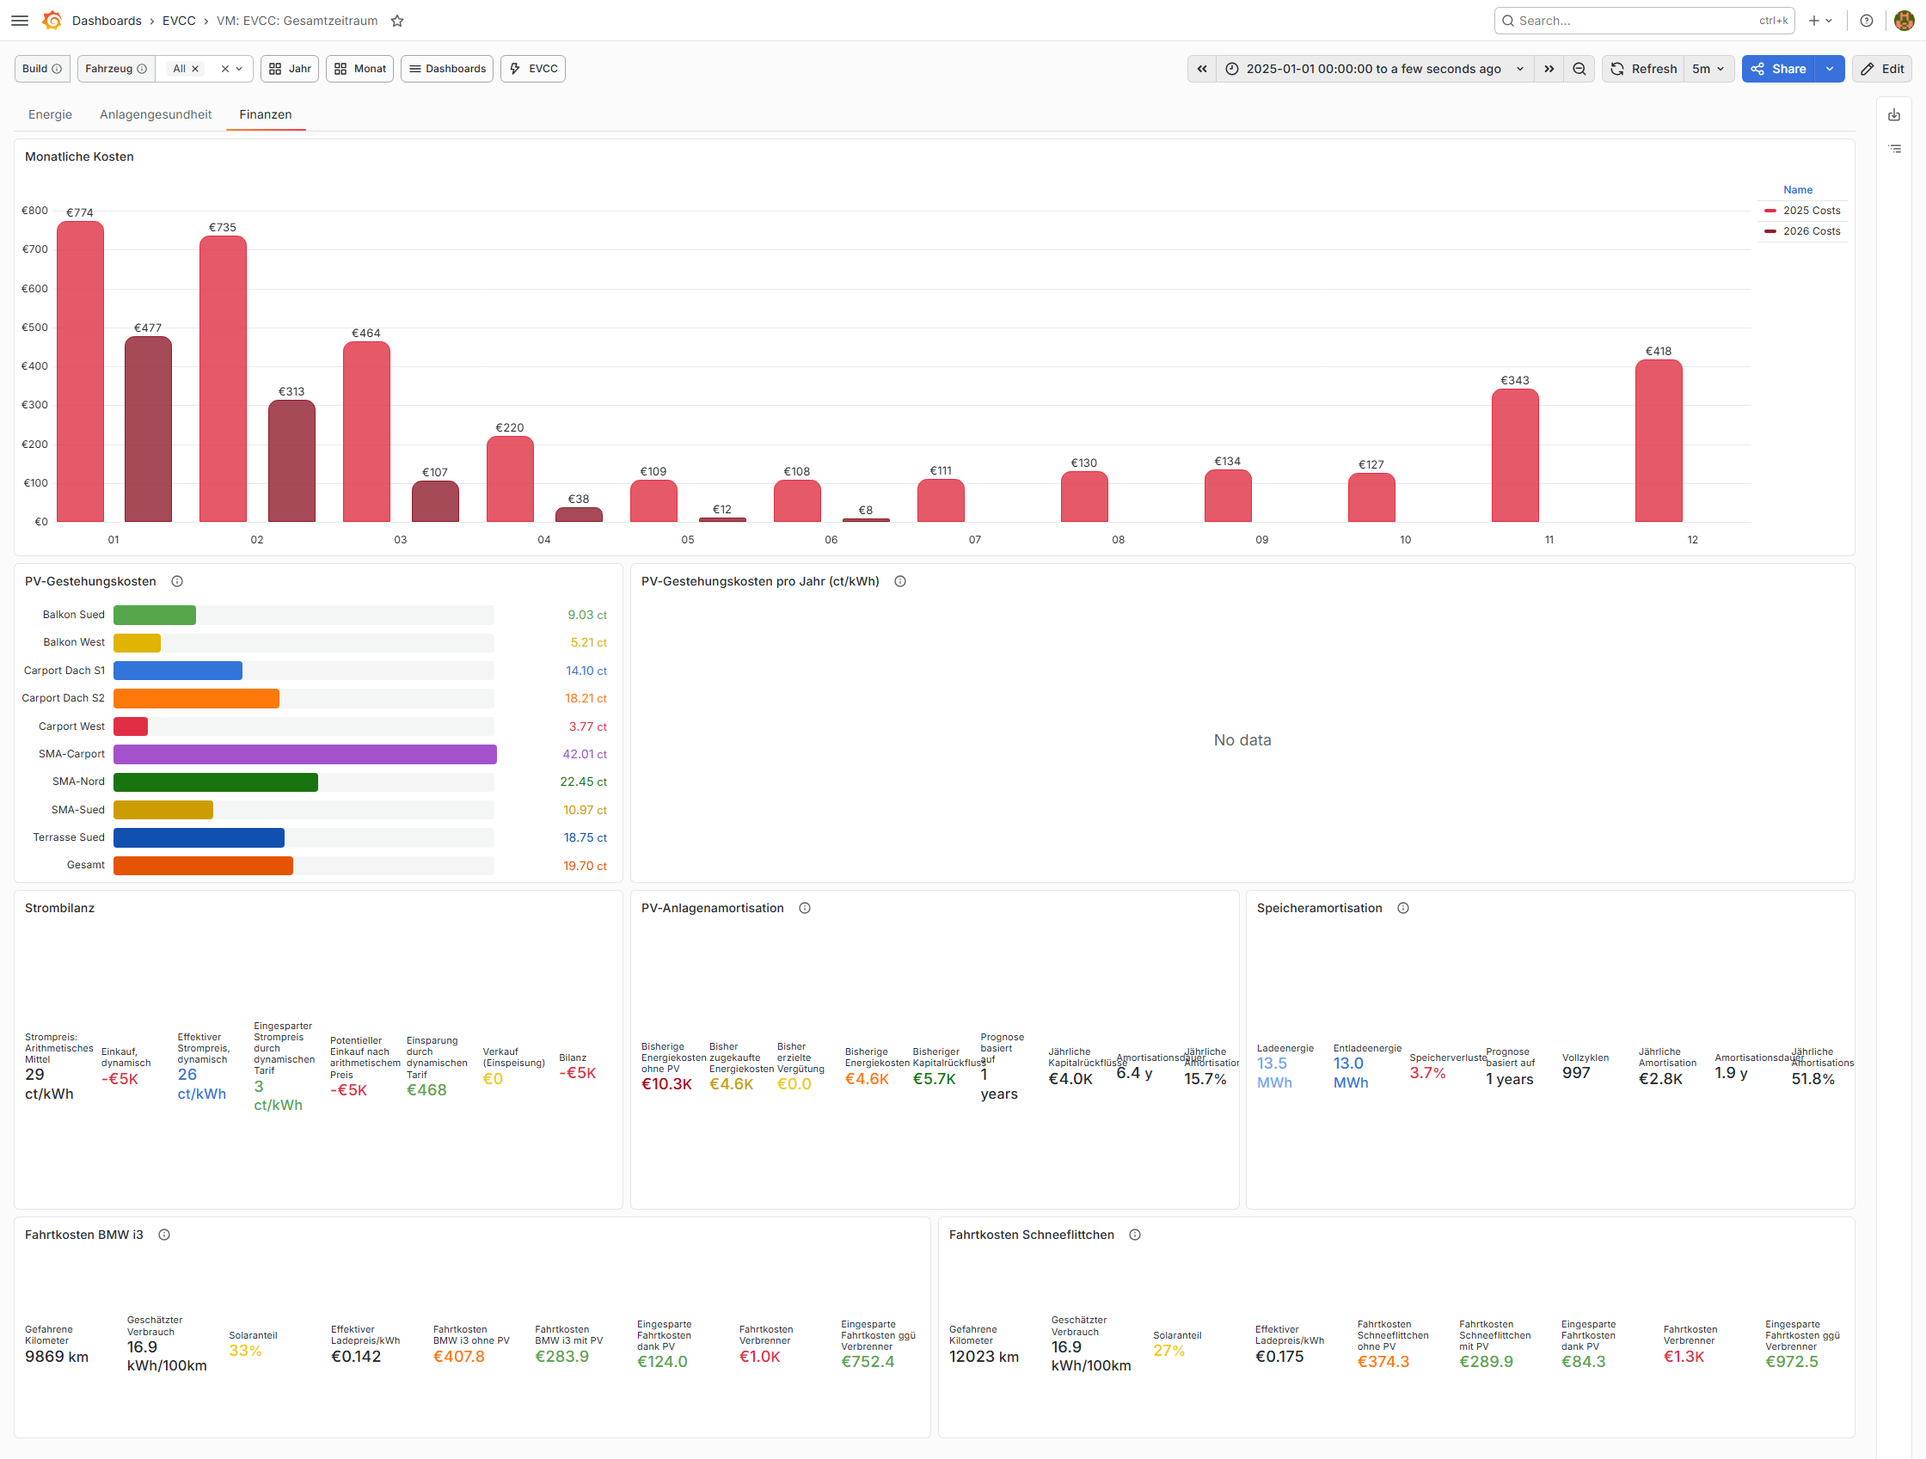
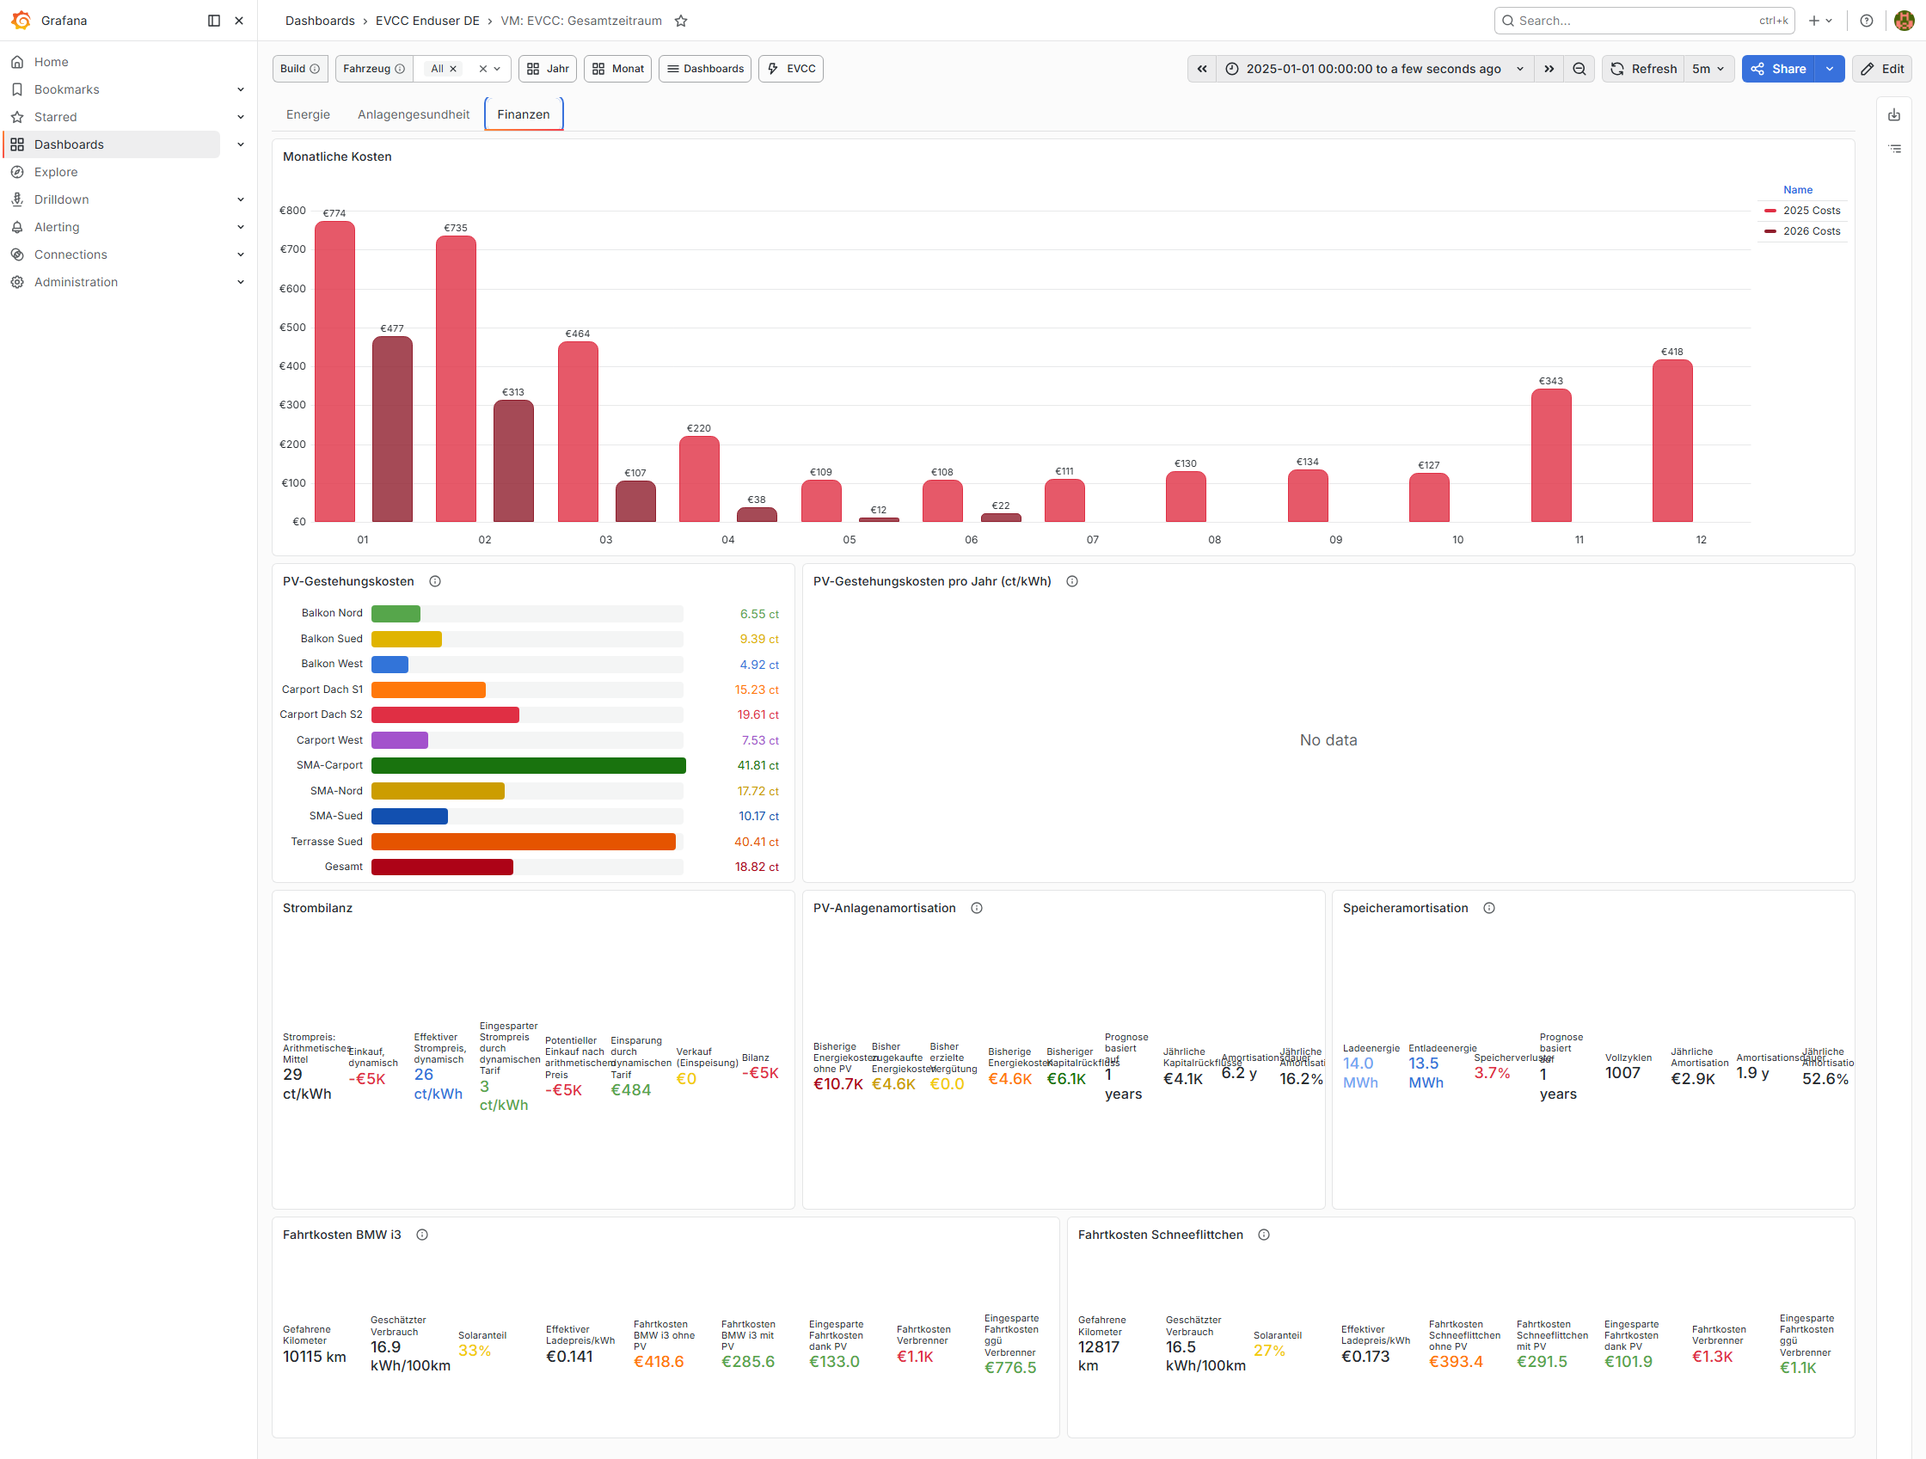
docs: prepare V2026-06-30 release

diff --git a/README.md b/README.md
@@ -6,8 +6,8 @@ English: This repository contains VictoriaMetrics-based Grafana dashboards for E
 
 Die Arbeit baut auf den frueheren InfluxDB-basierten EVCC-Dashboards von Carsten auf:
 [ha-puzzles/evcc-grafana-dashboards](https://github.com/ha-puzzles/evcc-grafana-dashboards).
-Vielen Dank an Carsten fuer die starke Vorarbeit. Dieses Repository liefert den VictoriaMetrics-Pfad mit Migration, Tages-Rollups, lokalisierten Dashboard-Varianten und Deploy-Skripten fuer Grafana.
-Ich werde versuchen, den Stand mit dem von Carsten synchron zu halten - von daher kann es immer mal zu breaking changes kommen. evtl. lasst Ihr als via Telegraf weiterhin auch Eure Influx befüllen. Quasi als Fallback falls neu migriert werden muss.
+Vielen Dank an Carsten fuer die starke Vorarbeit. Dieses Repository liefert den VictoriaMetrics-Pfad mit Migration, Tages-Rollups, lokalisierten Dashboard-Varianten, optionalen Zusatz-Auswertungen und Deploy-Skripten fuer Grafana.
+Ich versuche, den Stand mit Carstens Projekt synchron zu halten. Gerade bei neuen Funktionen kann es deshalb gelegentlich zu Breaking Changes kommen. Wenn du frisch migrierst, ist es sinnvoll, InfluxDB ueber Telegraf zunaechst weiter parallel zu befuellen, bis die VictoriaMetrics-Installation vollstaendig validiert ist.
 
 Beispiel-Dashboard, automatisch aus der aktuellen Screenshot-Galerie:
 
@@ -24,6 +24,10 @@ Weitere Beispiele der Dashboards findest du in der [Screenshot-Galerie](./docs/s
 - Grafana-13-TAB-Dashboards als unterstuetztes Navigationsmodell
 - Deploy-Skripte fuer Erstimport und Updates
 - ein Rollup-Skript fuer taegliche Langzeit-Metriken
+- optionale PV-Gestehungskosten/LCOE-Auswertung mit Investment-Datei und Wochen-Helper
+- PV-Anlagenvergleiche fuer Jahresertrag und spezifischen Ertrag (`kWh/kWp`)
+- EVCC-Gruenanteil als KPI in Tages- und Langzeitansichten
+- optionale historische Energieimporte, z. B. SMA-PV-Ertraege und SMA-Energiebilanzen als EVCC-kompatible Tageswerte
 - einen optionalen [Netzsteuerungs-Audit-Collector](./docs/de/grid-control-audit.md) fuer den Daily-Details-Tab
 - Dokumentation fuer die Migration von InfluxDB nach VictoriaMetrics
 - Installations- und Betriebsanleitungen fuer VictoriaMetrics, EVCC/Telegraf-Live-Ingest, Grafana, Migration und Dashboard-Deployment
@@ -33,10 +37,10 @@ Weitere Beispiele der Dashboards findest du in der [Screenshot-Galerie](./docs/s
 
 Die Dashboards enthalten Tages-, Monats-, Jahres- und All-Time-Ansichten.
 
-- `Today` zeigt den aktuellen Tag: PV, Netz, Hausverbrauch, Speicher, Ladepunkte, Energiefluss, Forecast, Autarkie, Eigenverbrauch und Kosten.
-- `Today - Details` zeigt zusaetzlich Phasen, Lade-Metriken, Rohhistorien und Preisdetails.
+- `Today` zeigt den aktuellen Tag: PV, Netz, Hausverbrauch, Speicher, Ladepunkte, Energiefluss, Forecast, Autarkie, Eigenverbrauch, Gruenanteil und Kosten.
+- `Today - Details` zeigt zusaetzlich Phasen, Lade-Metriken, Rohhistorien, Preisdetails und optional Netzsteuerungs-/14a-Auditdaten.
 - `Today - Mobile` ist eine kompakte Ansicht fuer kleinere Bildschirme.
-- `Month`, `Year` und `All-time` zeigen laengere Zeitraeume auf Basis der taeglichen `evcc_*` Rollups.
+- `Month`, `Year` und `All-time` zeigen laengere Zeitraeume auf Basis der taeglichen `evcc_*` Rollups, inklusive Finanz-, PV-Anlagen- und Anlagenvergleichsansichten, wenn die optionalen Daten vorhanden sind.
 
 Typische Anwendungsfaelle:
 
@@ -45,11 +49,15 @@ Typische Anwendungsfaelle:
 - Fahrzeuge und Ladepunkte nach Energie, Kosten und Nutzung auswerten
 - Speicherladung, Entladung und SOC-Verhalten analysieren
 - Preisentwicklung, Importkosten und Lastverteilung visualisieren
+- PV-Anlagen ueber Jahresertrag, spezifischen Ertrag und optional Gestehungskosten vergleichen
+- Gruenanteil, Autarkie und Eigenverbrauch als getrennte KPIs beobachten
+- optionale Netzsteuerungs-/14a-Eingriffe auditieren, wenn EVCC und der Collector entsprechende Daten liefern
 - historische EVCC-Daten von InfluxDB nach VictoriaMetrics migrieren und dort weiterbetreiben
+- fehlende historische EVCC-Jahre optional mit kompatiblen Tagesimporten aus externen Quellen ergaenzen
 
 ## Einstieg
 
 Der zentrale Einstieg fuer Installation, Migration, Live-Ingest und Dashboard-Deployment ist:
 
-- [docs/de/README.md](./docs/README.md)
+- [docs/README.md](./docs/README.md)
 - [Release Notes](./docs/de/release-notes.md)

diff --git a/README_EN.md b/README_EN.md
@@ -4,7 +4,7 @@ This repository provides VictoriaMetrics-based dashboards for [EVCC](https://evc
 
 It builds on the earlier InfluxDB-based EVCC dashboard work by Carsten:
 [ha-puzzles/evcc-grafana-dashboards](https://github.com/ha-puzzles/evcc-grafana-dashboards).
-Many thanks to Carsten for the excellent groundwork. This repository provides the VictoriaMetrics implementation path with migration tooling, daily rollups, localized dashboard variants, and Grafana deploy scripts.
+Many thanks to Carsten for the excellent groundwork. This repository provides the VictoriaMetrics implementation path with migration tooling, daily rollups, localized dashboard variants, optional add-on analytics, and Grafana deploy scripts.
 
 Example dashboard, automatically sourced from the current screenshot gallery:
 
@@ -21,6 +21,10 @@ More dashboard examples are available in the [screenshot gallery](./docs/screens
 - Grafana 13 TAB dashboards as the supported navigation model
 - deploy scripts for first-time imports and later updates
 - a rollup script for daily long-range dashboard metrics
+- optional PV generation cost/LCOE analytics based on an investment file and a weekly helper
+- PV source comparisons for yearly energy and specific yield (`kWh/kWp`)
+- EVCC green share as a KPI in daily and long-range views
+- optional historic energy imports, for example SMA PV yield and SMA energy balance files as EVCC-compatible daily values
 - an optional [grid-control audit collector](./docs/en/grid-control-audit.md) for the Daily Details tab
 - documentation for InfluxDB to VictoriaMetrics migration
 - end-user guides for VictoriaMetrics, EVCC/Telegraf live ingest, Grafana, migration, and dashboard deployment
@@ -30,10 +34,10 @@ More dashboard examples are available in the [screenshot gallery](./docs/screens
 
 The dashboards include day, month, year, and all-time views.
 
-- `Today` focuses on the current day: PV, grid, home, battery, charging points, energy flow, forecast, autarky, self-consumption, and costs.
-- `Today - Details` goes deeper into phases, charging metrics, raw histories, and pricing details.
+- `Today` focuses on the current day: PV, grid, home, battery, charging points, energy flow, forecast, autarky, self-consumption, green share, and costs.
+- `Today - Details` goes deeper into phases, charging metrics, raw histories, pricing details, and optional grid-control/14a audit data.
 - `Today - Mobile` is a compact layout for smaller screens.
-- `Month`, `Year`, and `All-time` provide longer-range energy, cost, battery, and vehicle analysis based on daily rollups.
+- `Month`, `Year`, and `All-time` provide longer-range energy, cost, battery, vehicle, finance, and PV-source analysis based on daily rollups when the optional data is available.
 
 Typical use cases:
 
@@ -42,11 +46,15 @@ Typical use cases:
 - analyze vehicles and charging points by energy, cost, and usage
 - inspect battery charge, discharge, and SOC behavior
 - visualize pricing trends, import cost, and load distribution
+- compare PV sources by yearly energy, specific yield, and optional generation cost
+- track green share, autarky, and self-consumption as separate KPIs
+- audit optional grid-control/14a events when EVCC and the collector provide the required data
 - migrate historic EVCC data from InfluxDB to VictoriaMetrics and continue operating there
+- optionally fill historic years without EVCC data from compatible external daily imports
 
 ## Getting started
 
-For the full end-to-end path from EVCC + InfluxDB to EVCC + VictoriaMetrics + Grafana, continue here:
+For installation, migration, live ingest, and dashboard deployment, continue here:
 
 - [docs/en/README.md](./docs/README_EN.md)
 - [release notes](./docs/en/release-notes.md)

diff --git a/docs/de/release-notes.md b/docs/de/release-notes.md
@@ -2,17 +2,30 @@
 
 Englische Version: [release-notes.md](../en/release-notes.md).
 
-Diese Hinweise fassen das erste oeffentliche EVCC-Dashboard-Release auf VictoriaMetrics-Basis zusammen.
+Diese Hinweise fassen die oeffentlichen EVCC-Dashboard-Releases auf VictoriaMetrics-Basis zusammen.
 
 ## Unreleased
 
+Noch keine Eintraege.
+
+## V2026-06-30
+
 ### Neue Funktionen
 
-- EVCC-Gruenanteil wird als eigener KPI dokumentiert und in den Kennzahlenbereichen als EVCC-Haus-Gruenanteil verstanden. Der Wert basiert auf EVCCs `greenShareHome_value` und zaehlt PV plus Batterieentladung als gruen verfuegbare Leistung.
+- EVCC-Gruenanteil ist als eigener KPI in `Today`, `Month`, `Year` und `All-time` sichtbar. Der Wert folgt EVCCs `greenShareHome_value` und beschreibt EVCCs Haus-Gruenanteil als Trend-KPI.
+- Optionaler Netzsteuerungs-/14a-Auditpfad: ein Collector kann EVCC-Begrenzungen und Steuerereignisse nach VictoriaMetrics schreiben und lokal als CSV-Historie sichern. `Today - Details` zeigt dafuer den Tab `Netzsteuerung` mit VNB-Grenzen, Einhaltungsreserven, aktuellen Limits, steuerbaren Gruppen und Ereignistabelle.
+- Der Collector unterstuetzt explizit konfigurierte steuerbare Gruppen, z. B. zusammengefasste Ladepunkte, Waermepumpe und Batterie-Netzladung.
+
+### Verbesserungen
+
+- `Year` und `Month` ordnen Haus-/Verbraucher-/Finanzbereiche klarer: Versorgungsmix-Panels liegen unter `Haus`, Kosten- und Preis-Panels unter `Finanzen`.
+- Netzsteuerungs-Panels verwenden konsistente Vorzeichen und Farben: Bezug/Verbrauch rot, Einspeisung gruen und berechnete Werte blau; Einspeisung wird negativ dargestellt.
+- Der Deployer schreibt eine aussagekraeftigere Dashboard-Build-Info mit Build/Source statt nur dem Deployment-Zeitpunkt.
 
 ### Hinweise fuer Nutzer
 
 - Fuer Langzeit-Gruenanteil in Monats-, Jahres- und Gesamtzeitraum-Dashboards muss der normale EVCC-VM-Rollup fuer die gewuenschten Zeitraeume gelaufen sein. Die aktuellen Langzeitwerte sind Trend-KPIs aus taeglichen EVCC-Ratios, keine externe Oekostrom- oder CO2-Bewertung.
+- Der Netzsteuerungs-Tab erscheint nur, wenn `evcc_audit_*`-Metriken vorhanden sind. Fuer diese optionale Ansicht muss der Collector installiert und betrieben werden; die Doku verwendet dafuer `/opt/evcc-vm-tools`.
 
 ## V2026-06-14
 
@@ -128,6 +141,3 @@ Die Release-Validierung deckte ab:
 - deutsche Screenshots der Dashboards mit Tab-Navigation fuer jeden aktiven Tab
 - Grafana-Lokalisierungs-Spot-Checks fuer `de`, `fr` und `zh`
 - lokale statische/unit/dashboard Checks via `npm test`
-
-
-

diff --git a/docs/en/release-notes.md b/docs/en/release-notes.md
@@ -1,16 +1,29 @@
 # Release Notes
 
-These notes summarize the first public VictoriaMetrics-based EVCC dashboard release.
+These notes summarize the public VictoriaMetrics-based EVCC dashboard releases.
 
 ## Unreleased
 
+No entries yet.
+
+## V2026-06-30
+
 ### New Features
 
-- EVCC green share is documented as a first-class KPI and treated in KPI sections as EVCC's home green share. The value is based on EVCC's `greenShareHome_value` and treats PV plus battery discharge as green available power.
+- EVCC green share is visible as a KPI in `Today`, `Month`, `Year`, and `All-time`. The value follows EVCC's `greenShareHome_value` and represents EVCC's home green share as a trend KPI.
+- Optional grid-control/14a audit path: a collector can write EVCC limits and control events to VictoriaMetrics and keep a local CSV history. `Today - Details` shows these values in the `Grid control` tab with grid limits, compliance reserves, current limits, controllable groups, and an event table.
+- The collector supports explicitly configured controllable groups, for example combined loadpoints, heat pump, and battery grid charge.
+
+### Improvements
+
+- `Year` and `Month` group home, consumer, and finance areas more clearly: supply-mix panels live under `Home`, while cost and price panels live under `Finances`.
+- Grid-control panels use consistent signs and colors: import/consumption in red, feed-in in green, and calculated values in blue; feed-in is shown as negative.
+- The deployer writes a more useful dashboard build marker with build/source instead of only the deployment timestamp.
 
 ### User Notes
 
 - Long-range green-share panels in month, year, and all-time dashboards require the regular EVCC VM rollup for the affected date ranges. The current long-range values are trend KPIs based on daily EVCC ratios, not an external renewable-tariff or CO2 assessment.
+- The grid-control tab is shown only when `evcc_audit_*` metrics exist. This optional view requires the collector to be installed and running; the documentation uses `/opt/evcc-vm-tools` for that setup.
 
 ## V2026-06-14
 
@@ -126,6 +139,3 @@ Release validation covered:
 - German tab-navigation dashboard screenshots for every active tab
 - Grafana localization spot-checks for `de`, `fr`, and `zh`
 - local static/unit/dashboard checks via `npm test`
-
-
-

diff --git a/docs/screenshots/README.md b/docs/screenshots/README.md
@@ -56,13 +56,13 @@ Jahresansicht fuer Haus, Netz und Autarkie.
 
 Jahresansicht fuer Batterie- und Speicherkennzahlen.
 
-### Year Verbraucher
+### Year Finanzen
 
-<a href="./year-consumers.png" target="_blank" rel="noopener">
-  <img src="./year-consumers.png" alt="Year Verbraucher Tab" width="720">
+<a href="./year-finances.png" target="_blank" rel="noopener">
+  <img src="./year-finances.png" alt="Year Finanzen Tab" width="720">
 </a>
 
-Jahresansicht fuer Verbraucher.
+Jahresansicht fuer Finanzen, Stromkosten und PV-Gestehungskosten.
 
 ### Year Fahrzeuge
 
@@ -98,13 +98,13 @@ Monatsansicht fuer Haus, Netzbezug und Eigenverbrauch.
 
 Monatsansicht fuer Batterie, SOC und Speicherfluesse.
 
-### Month Verbraucher
+### Month Finanzen
 
-<a href="./month-consumers.png" target="_blank" rel="noopener">
-  <img src="./month-consumers.png" alt="Month Verbraucher Tab" width="720">
+<a href="./month-finances.png" target="_blank" rel="noopener">
+  <img src="./month-finances.png" alt="Month Finanzen Tab" width="720">
 </a>
 
-Monatsansicht fuer Verbraucher und Lastverteilung.
+Monatsansicht fuer Finanzen, Strompreise und Stromkosten.
 
 ## Today - Details
 

diff --git a/docs/screenshots/README_EN.md b/docs/screenshots/README_EN.md
@@ -56,13 +56,13 @@ Yearly home, grid, and autarky view.
 
 Yearly battery and storage metrics.
 
-### Year Consumers
+### Year Finances
 
-<a href="./year-consumers.png" target="_blank" rel="noopener">
-  <img src="./year-consumers.png" alt="Year Consumers Tab" width="720">
+<a href="./year-finances.png" target="_blank" rel="noopener">
+  <img src="./year-finances.png" alt="Year Finances Tab" width="720">
 </a>
 
-Yearly consumer view.
+Yearly finance view with electricity costs and PV generation costs.
 
 ### Year Vehicles
 
@@ -98,13 +98,13 @@ Monthly home, grid import, and self-consumption view.
 
 Monthly battery, SOC, and storage flow view.
 
-### Month Consumers
+### Month Finances
 
-<a href="./month-consumers.png" target="_blank" rel="noopener">
-  <img src="./month-consumers.png" alt="Month Consumers Tab" width="720">
+<a href="./month-finances.png" target="_blank" rel="noopener">
+  <img src="./month-finances.png" alt="Month Finances Tab" width="720">
 </a>
 
-Monthly consumers and load distribution.
+Monthly finance view with electricity prices and costs.
 
 ## Today - Details
 

diff --git a/docs/de/grid-control-audit.md b/docs/de/grid-control-audit.md
@@ -69,7 +69,7 @@ sudo nano /etc/evcc-grid-control-audit.env
 Minimalbeispiel:
 
 ```env
-EVCC_BASE_URL=http://192.168.1.197:7070
+EVCC_BASE_URL=http://evcc.local:7070
 VM_WRITE_URL=http://127.0.0.1:8428/api/v1/import/prometheus
 SITE_ID=home
 EVCC_API_POLL_SECONDS=10
@@ -148,7 +148,7 @@ Vor dem Service-Start kannst du einen Lauf ausfuehren:
 
 ```bash
 sudo /usr/bin/python3 /opt/evcc-vm-tools/collect-evcc-grid-control-audit.py \
-  --evcc-url http://192.168.1.197:7070 \
+  --evcc-url http://evcc.local:7070 \
   --vm-write-url http://127.0.0.1:8428/api/v1/import/prometheus \
   --site home \
   --once
@@ -158,7 +158,7 @@ Nur anzeigen, ohne nach VictoriaMetrics oder in die lokale CSV zu schreiben:
 
 ```bash
 sudo /usr/bin/python3 /opt/evcc-vm-tools/collect-evcc-grid-control-audit.py \
-  --evcc-url http://192.168.1.197:7070 \
+  --evcc-url http://evcc.local:7070 \
   --site home \
   --once \
   --dry-run

diff --git a/docs/en/grid-control-audit.md b/docs/en/grid-control-audit.md
@@ -69,7 +69,7 @@ sudo nano /etc/evcc-grid-control-audit.env
 Minimal example:
 
 ```env
-EVCC_BASE_URL=http://192.168.1.197:7070
+EVCC_BASE_URL=http://evcc.local:7070
 VM_WRITE_URL=http://127.0.0.1:8428/api/v1/import/prometheus
 SITE_ID=home
 EVCC_API_POLL_SECONDS=10
@@ -148,7 +148,7 @@ Before enabling the service, run one collector cycle:
 
 ```bash
 sudo /usr/bin/python3 /opt/evcc-vm-tools/collect-evcc-grid-control-audit.py \
-  --evcc-url http://192.168.1.197:7070 \
+  --evcc-url http://evcc.local:7070 \
   --vm-write-url http://127.0.0.1:8428/api/v1/import/prometheus \
   --site home \
   --once
@@ -158,7 +158,7 @@ Print metrics without writing to VictoriaMetrics or the local CSV:
 
 ```bash
 sudo /usr/bin/python3 /opt/evcc-vm-tools/collect-evcc-grid-control-audit.py \
-  --evcc-url http://192.168.1.197:7070 \
+  --evcc-url http://evcc.local:7070 \
   --site home \
   --once \
   --dry-run
